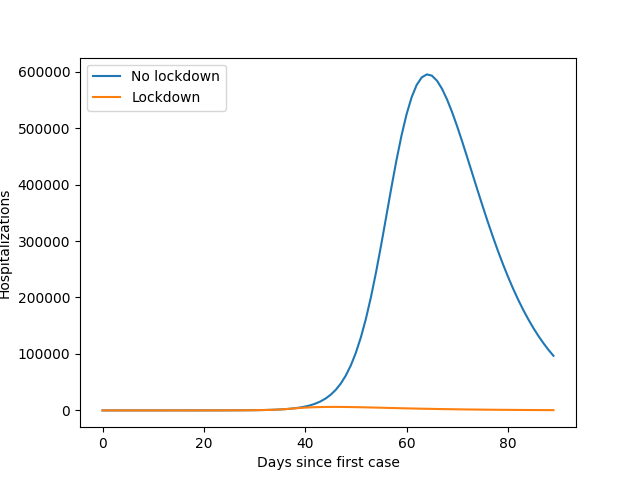
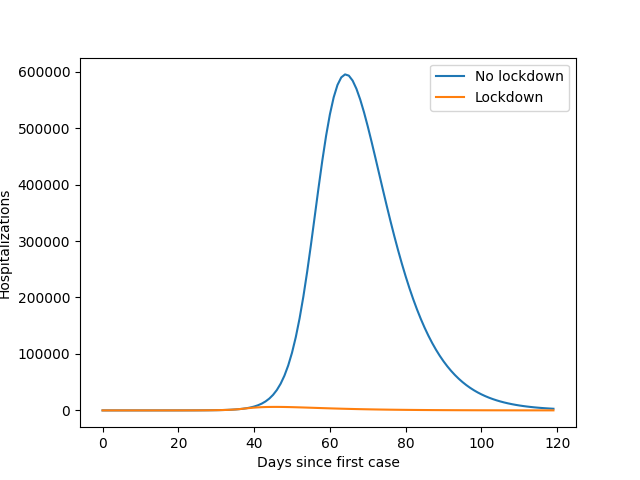
Fixed IC overflow

diff --git a/src/main.py b/src/main.py
@@ -210,7 +210,7 @@ def plot_model(contact_matrix, susceptible, infectious_rate, days, reference_cas
 
 def main():
     infectious_rate = .05
-    days = 90
+    days = 120
 
     cc = CCMatrix('cc15.csv', 'eurostat_pop_age.csv', 'COVID19BE_HOSP.csv')
     contact_matrix = cc.cc_matrix
@@ -264,52 +264,56 @@ def main():
          ["Hospital + IC (parties)", "Reference Hospital + IC"], 'party_hospital_ic_diff', 'Hospitalized')
 
     # Uncomment for plots
-    # model_no_lockdown = plot_model(contact_matrix, cc.belgium_count, infectious_rate=infectious_rate, days=days,
-    #                                first_patient_age=45, cap_ic=False)
-    #
-    # plot([model_no_lockdown.infected_data, model_no_lockdown.hospital_data, model_no_lockdown.ic_data,
-    #       model_no_lockdown.dead_data], ["Infected", "Hospital", "IC", "Dead"],
-    #      name='model_no_lockdown', y_label='Amount')
-    #
-    # plot([model_no_lockdown.infected_data, model.infected_data], ["No lockdown", "Lockdown"],
-    #      name='Infected_lockdown_diff', y_label='Infections')
-    #
-    # plot([model_no_lockdown.hospital_data, model.hospital_data], ["No lockdown", "Lockdown"],
-    #      name='Hospital_lockdown_diff', y_label='Hospitalizations')
-    #
-    # plot([model_no_lockdown.dead_data, model.dead_data], ["No lockdown", "Lockdown"],
-    #      name='Dead_lockdown_diff', y_label='Dead')
-    #
-    # plot([model_no_lockdown.ic_data, model.ic_data], ["No lockdown", "Lockdown"],
-    #      name='IC_lockdown_diff', y_label='Intensive Care')
-    #
-    # print('Dead people:', model_no_lockdown.dead_data[-1])
-    # print('Hospital people:', model_no_lockdown.hospital_total_data[-1])
-    # print('IC people:', model_no_lockdown.ic_data[-1])
+    model_no_lockdown = plot_model(contact_matrix, cc.belgium_count, infectious_rate=infectious_rate, days=days,
+                                   first_patient_age=45, cap_ic=False)
+
+    plot([model_no_lockdown.infected_data, model_no_lockdown.hospital_data, model_no_lockdown.ic_data,
+          model_no_lockdown.dead_data], ["Infected", "Hospital", "IC", "Dead"],
+         name='model_no_lockdown', y_label='Amount')
+
+    plot([model_no_lockdown.infected_data, model.infected_data], ["No lockdown", "Lockdown"],
+         name='Infected_lockdown_diff', y_label='Infections')
+
+    plot([model_no_lockdown.hospital_data, model.hospital_data], ["No lockdown", "Lockdown"],
+         name='Hospital_lockdown_diff', y_label='Hospitalizations')
+
+    plot([model_no_lockdown.dead_data, model.dead_data], ["No lockdown", "Lockdown"],
+         name='Dead_lockdown_diff', y_label='Dead')
+
+    plot([model_no_lockdown.ic_data, model.ic_data], ["No lockdown", "Lockdown"],
+         name='IC_lockdown_diff', y_label='Intensive Care')
+
+    print('Dead people:', model_no_lockdown.dead_data[-1])
+    print('Hospital people:', model_no_lockdown.hospital_total_data[-1])
+    print('IC people:', model_no_lockdown.ic_data[-1])
 
     # Uncomment for plots (icu cap)
-    # model_no_lockdown = plot_model(contact_matrix, cc.belgium_count, infectious_rate=infectious_rate, days=days,
-    #                                first_patient_age=45, cap_ic=True)
-    #
-    # plot([model_no_lockdown.infected_data, model_no_lockdown.hospital_data, model_no_lockdown.ic_data,
-    #       model_no_lockdown.dead_data], ["Infected", "Hospital", "IC", "Dead"],
+    model_no_lockdown = plot_model(contact_matrix, cc.belgium_count, infectious_rate=infectious_rate, days=days,
+                                   first_patient_age=45, cap_ic=True)
+
+    plot([model_no_lockdown.infected_data, model_no_lockdown.hospital_data, model_no_lockdown.ic_data,
+          model_no_lockdown.dead_data, model_no_lockdown.ic_overflow_data], ["Infected", "Hospital", "IC", "Dead", "IC Overflow"],
+         name='model_no_lockdown-cap-ic', y_label='Amount')
+
+    # plot([model_no_lockdown.ic_data, model_no_lockdown.ic_overflow_data],
+    #      ["IC", "IC Overflow"],
     #      name='model_no_lockdown-cap-ic', y_label='Amount')
-    #
-    # plot([model_no_lockdown.infected_data, model.infected_data], ["No lockdown", "Lockdown"],
-    #      name='Infected_lockdown_diff-cap-ic', y_label='Infections')
-    #
-    # plot([model_no_lockdown.hospital_data, model.hospital_data], ["No lockdown", "Lockdown"],
-    #      name='Hospital_lockdown_diff-cap-ic', y_label='Hospitalizations')
-    #
-    # plot([model_no_lockdown.dead_data, model.dead_data], ["No lockdown", "Lockdown"],
-    #      name='Dead_lockdown_diff-cap-ic', y_label='Dead')
-    #
-    # plot([model_no_lockdown.ic_data, model.ic_data], ["No lockdown", "Lockdown"],
-    #      name='IC_lockdown_diff-cap-ic', y_label='Intensive Care')
-    #
-    # print('Dead people:', model_no_lockdown.dead_data[-1])
-    # print('Hospital people:', model_no_lockdown.hospital_total_data[-1])
-    # print('IC people:', model_no_lockdown.ic_data[-1])
+
+    plot([model_no_lockdown.infected_data, model.infected_data], ["No lockdown", "Lockdown"],
+         name='Infected_lockdown_diff-cap-ic', y_label='Infections')
+
+    plot([model_no_lockdown.hospital_data, model.hospital_data], ["No lockdown", "Lockdown"],
+         name='Hospital_lockdown_diff-cap-ic', y_label='Hospitalizations')
+
+    plot([model_no_lockdown.dead_data, model.dead_data], ["No lockdown", "Lockdown"],
+         name='Dead_lockdown_diff-cap-ic', y_label='Dead')
+
+    plot([model_no_lockdown.ic_data, model.ic_data], ["No lockdown", "Lockdown"],
+         name='IC_lockdown_diff-cap-ic', y_label='Intensive Care')
+
+    print('Dead people:', model_no_lockdown.dead_data[-1])
+    print('Hospital people:', model_no_lockdown.hospital_total_data[-1])
+    print('IC people:', model_no_lockdown.ic_data[-1])
 
     # gifs
     # animate([model.infected_data, model.hospital_data, model.ic_data, model.dead_data],

diff --git a/src/Model.py b/src/Model.py
@@ -61,6 +61,7 @@ class Model:
         self.hospital_data = np.empty(0)
         self.hospital_total_data = np.empty(0)
         self.ic_data = np.empty(0)
+        self.ic_overflow_data = np.empty(0)
         self.dead_data = np.empty(0)
         self.case_data = np.empty(0)
         self.scenario = scenario
@@ -109,10 +110,11 @@ class Model:
         # ic recovery rate is lower when
         recoveries = ic * self.recovery_rate_ic
         if self.cap_ic:
-            ic_no_bed = np.maximum(ic - self.ic_capacity, np.zeros(86))
+            ic_alloc = self.allocate_ic(ic)
+            if ic_alloc is not None:
             # if icu capacity is exceeded, let people without a bed recover at a low rate
-            if ic_no_bed.sum() > 0:
-                recoveries = self.ic_capacity * self.recovery_rate_ic
+                ic_no_bed = np.maximum(ic - ic_alloc, np.zeros(86))
+                recoveries = ic_alloc * self.recovery_rate_ic
                 recoveries += ic_no_bed * self.recovery_rate_ic_no_bed
         self.recovered += recoveries
         self.hospital_ic -= recoveries
@@ -142,6 +144,20 @@ class Model:
         self.hospital = np.maximum(self.hospital, np.zeros(86))
         ...
 
+    def allocate_ic(self, ic):
+        if sum(ic) < 3000:
+            return None
+        ic_allocation = []
+        index = 0
+        while sum(ic_allocation) < 3000:
+            ic_allocation.append(ic[index])
+            index += 1
+        overflow = sum(ic_allocation) - 3000
+        ic_allocation[-1] -= overflow
+        while len(ic_allocation) < 86:
+            ic_allocation.append(0)
+        return np.array(ic_allocation)
+
     def die(self, hospitalized, ic):
         """
         From hospitalized and ic to Death
@@ -153,10 +169,11 @@ class Model:
         # icu dead
         dead = ic * self.death_rate
         if self.cap_ic:
-            ic_no_bed = np.maximum(ic - self.ic_capacity, np.zeros(86))
-            # if icu capacity is exceeded, let people without a bed die with at a high rate
-            if ic_no_bed.sum() > 0:
-                dead = self.ic_capacity * self.death_rate
+            ic_alloc = self.allocate_ic(ic)
+            if ic_alloc is not None:
+            # if icu capacity is exceeded, let people without a bed recover at a low rate
+                ic_no_bed = np.maximum(ic - ic_alloc, np.zeros(86))
+                dead = ic_alloc * self.death_rate
                 dead += ic_no_bed * self.ic_no_bed_death_rate
         self.dead += dead
         self.hospital_ic -= dead
@@ -205,7 +222,17 @@ class Model:
             self.exposed_data = np.append(self.exposed_data, self.exposed.sum())
             self.recovered_data = np.append(self.recovered_data, self.recovered.sum())
             self.hospital_data = np.append(self.hospital_data, self.hospital.sum())
-            self.ic_data = np.append(self.ic_data, self.hospital_ic.sum())
+            if self.cap_ic:
+                ic_alloc = self.allocate_ic(self.hospital_ic)
+                if ic_alloc is not None:
+                    # if icu capacity is exceeded, cap ic_data at ic_capacity, keep adding ic (inc. without bed) to ic_overflow_data
+                    self.ic_data = np.append(self.ic_data, ic_alloc.sum())
+                    self.ic_overflow_data = np.append(self.ic_overflow_data, self.hospital_ic.sum())
+                else:
+                    self.ic_data = np.append(self.ic_data, self.hospital_ic.sum())
+                    self.ic_overflow_data = np.append(self.ic_overflow_data, self.hospital_ic.sum())
+            else:
+                self.ic_data = np.append(self.ic_data, self.hospital_ic.sum())
             self.dead_data = np.append(self.dead_data, self.dead.sum())
             self.case_data = np.append(self.case_data, self.infected.sum() + self.recovered.sum() + self.hospital.sum()
                                        + self.hospital_ic.sum() + self.dead.sum())
